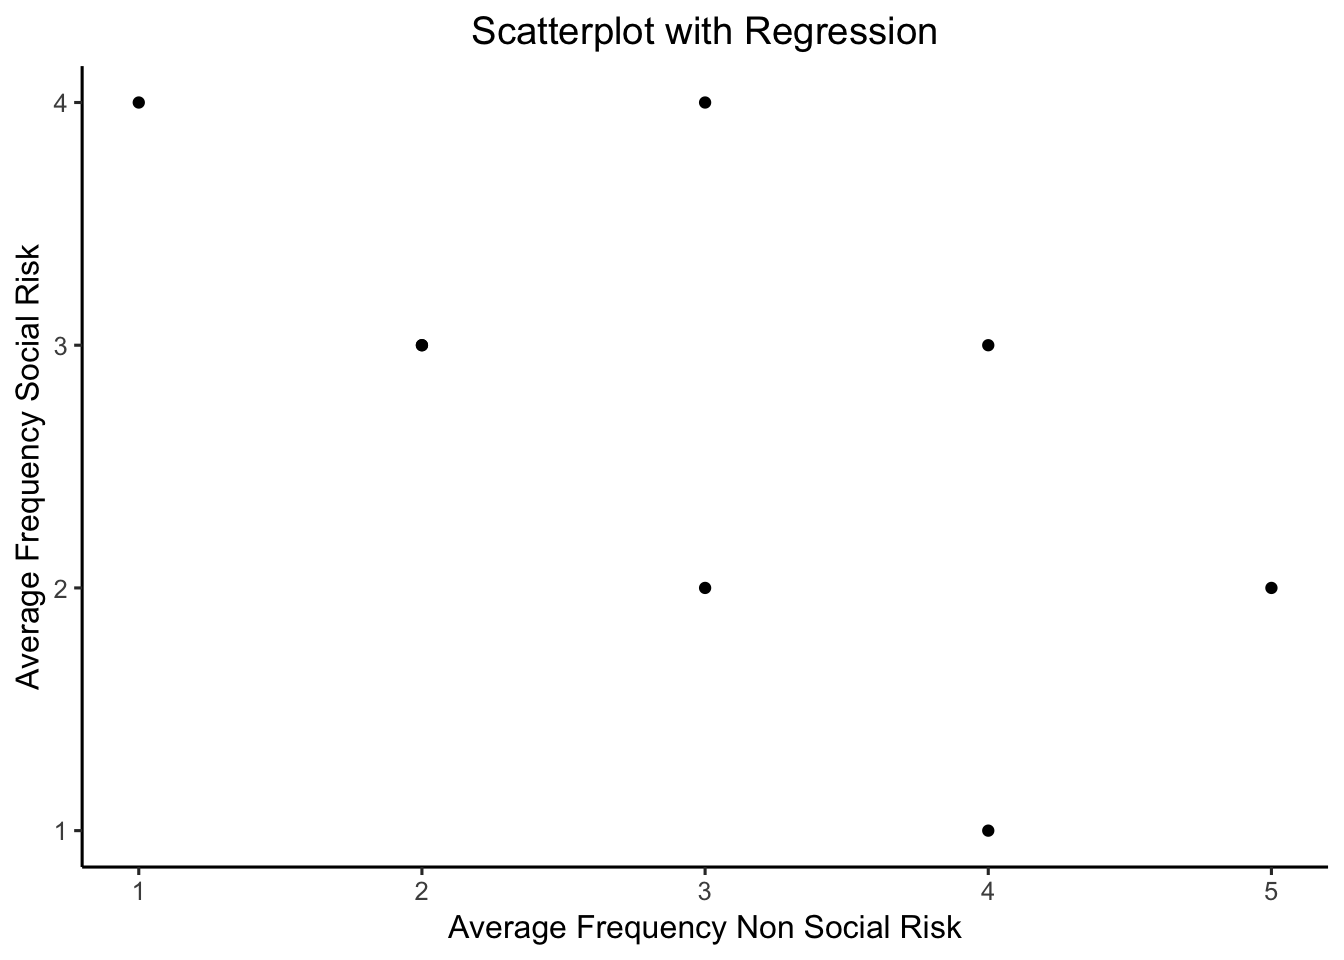
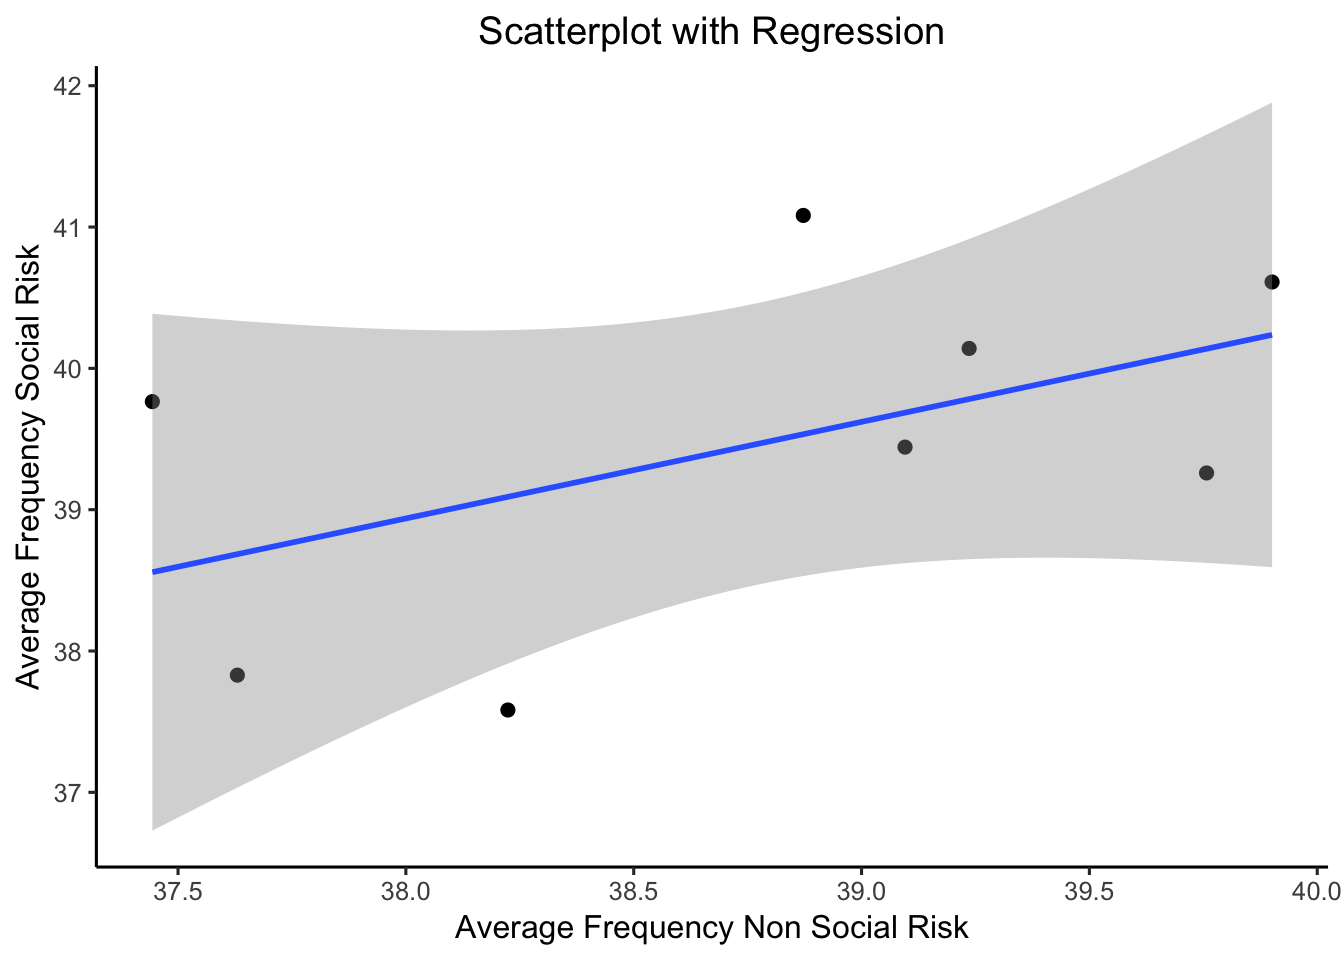
more graphs

diff --git a/docs/examples.html b/docs/examples.html
@@ -413,6 +413,9 @@ div.tocify {
 
 <div id="examples-for-how-to-turn-data-into-different-graphs" class="section level2">
 <h2>Examples for how to turn data into different graphs</h2>
+<div id="example-of-line-graph" class="section level3">
+<h3>1. Example of line graph</h3>
+<p>Two conditions and Two different lines to indicate significance</p>
 <pre class="r"><code>library(ggplot2)
 
 # add &quot;each&quot; to keep both copies of the names together 
@@ -429,15 +432,19 @@ ggplot(plot_df, aes(x=Condition, y=MF, group=Names,
   geom_text(label=Names)+
   theme_classic()</code></pre>
 <p><img src="examples_files/figure-html/unnamed-chunk-1-1.png" width="672" /></p>
+</div>
 <div id="scatterplot-with-a-regression-line" class="section level3">
-<h3>1. ScatterPlot with a Regression Line</h3>
-<pre class="r"><code>AvNonRisk &lt;- c(1,2,3,2,3,4,5,4)
-AvSocialRisk &lt;- c(4,3,4,3,2,1,2,3)
+<h3>2. ScatterPlot with a Regression Line</h3>
+<pre class="r"><code>AvNonRisk &lt;- rnorm(8,40,2)
+AvSocialRisk &lt;- rnorm(8,40,2)
 plot_df &lt;- data.frame(AvNonRisk,AvSocialRisk)
 
 
 ggplot(plot_df, aes(x=AvNonRisk,y=AvSocialRisk))+
   geom_point()+
+  geom_point(size=2)+
+  geom_smooth(method=lm)+
+  
   xlab(&quot;Average Frequency Non Social Risk&quot;)+
   ylab(&quot;Average Frequency Social Risk&quot;)+
   ggtitle(&quot;Scatterplot with Regression&quot;)+
